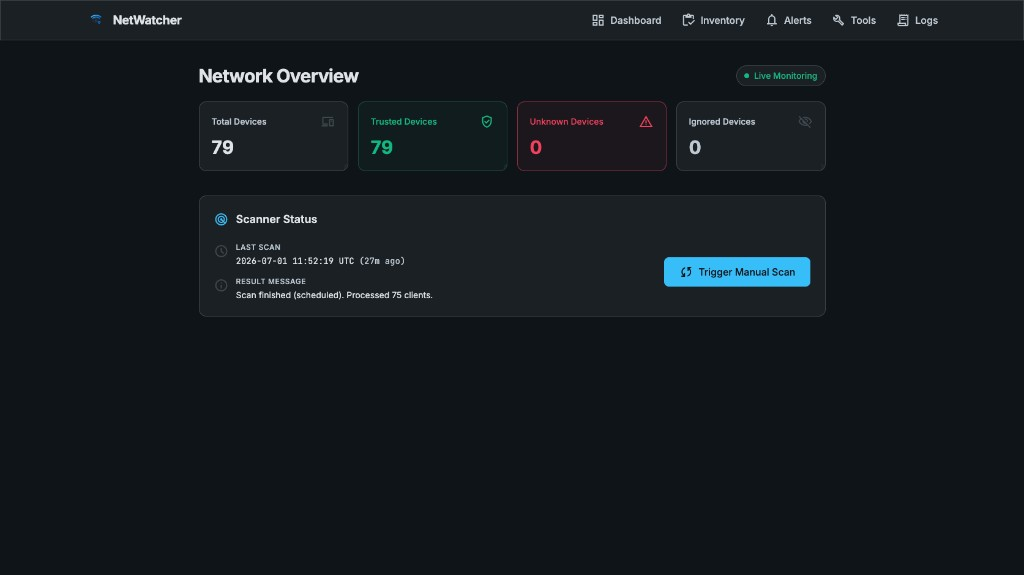
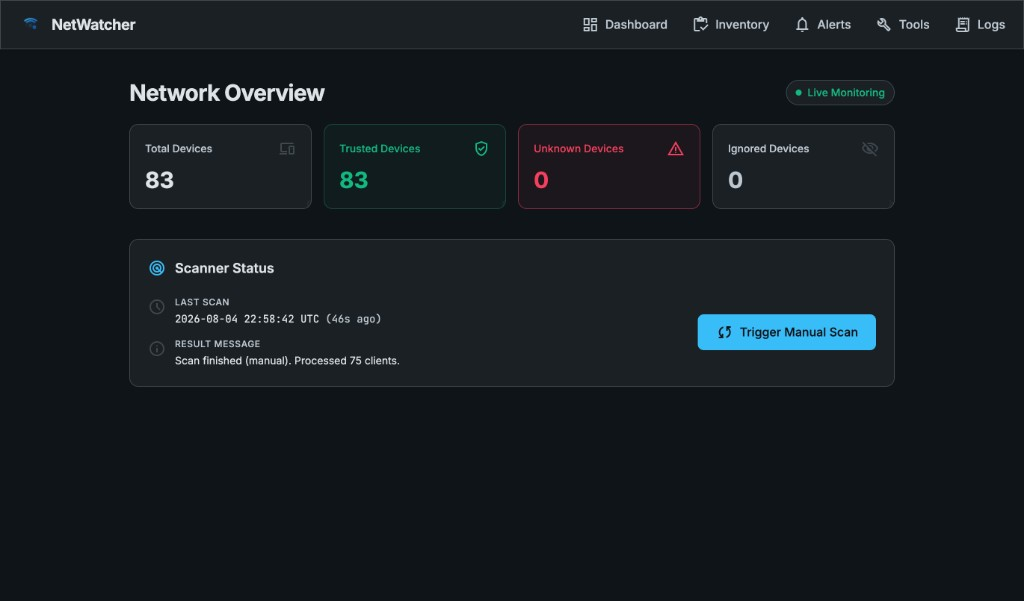
docs: use dashboard screenshot as README hero image

diff --git a/README.md b/README.md
@@ -1,5 +1,5 @@
 <p align="center">
-  <img src="docs/assets/netwatcher.png" alt="NetWatcher logo" width="160">
+  <img src="docs/assets/screenshot.png" alt="NetWatcher dashboard" width="800">
 </p>
 
 # NetWatcher for UniFi
@@ -58,20 +58,19 @@ docker compose up -d
 
 ### Native Python / Node
 
-```bash
-python3 -m venv .venv
-source .venv/bin/activate
-pip install -r requirements.txt
+Requires [uv](https://docs.astral.sh/uv/) and Node 20+.
 
-npm install
-npm run build:css
+```bash
+uv sync
+npm ci && npm run build:css
 
 cp .env.example .env
-uvicorn app.main:app --reload --port 8080
+uv run uvicorn app.main:app --reload --port 8080
 ```
 
 For local development without a UniFi controller, set `UNIFI_MOCK_MODE=true` in `.env`.
 
+See [CONTRIBUTING.md](CONTRIBUTING.md) for PR title conventions, hooks, and release flow.
 ### Docker-based development
 
 Builds from source and enables mock mode via `compose.dev.yml`:
@@ -115,9 +114,3 @@ Versioning is automated with [Release Please](https://github.com/googleapis/rele
 - **Use a dedicated UniFi account** with only the permissions NetWatcher needs.
 - **`UNIFI_VERIFY_SSL=false`** should only be used on trusted LANs.
 - **Protect the data directory.** Notification secrets and UniFi configuration may be stored in local files and SQLite under `./data`.
-
-## Screenshot
-
-<p align="center">
-  <img src="docs/assets/screenshot.png" alt="NetWatcher dashboard showing device stats and scanner status" width="900">
-</p>
